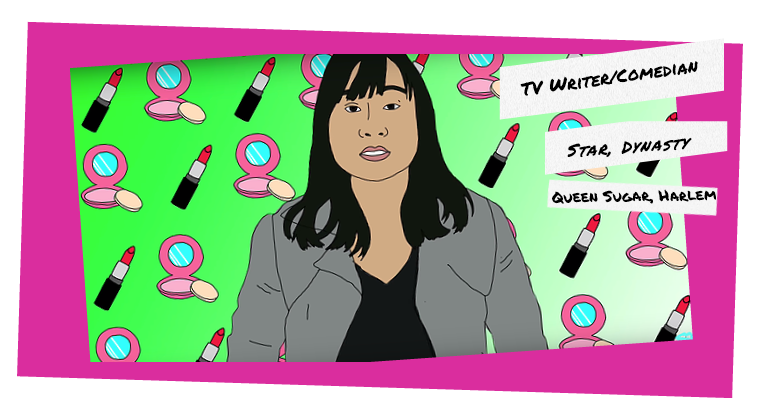
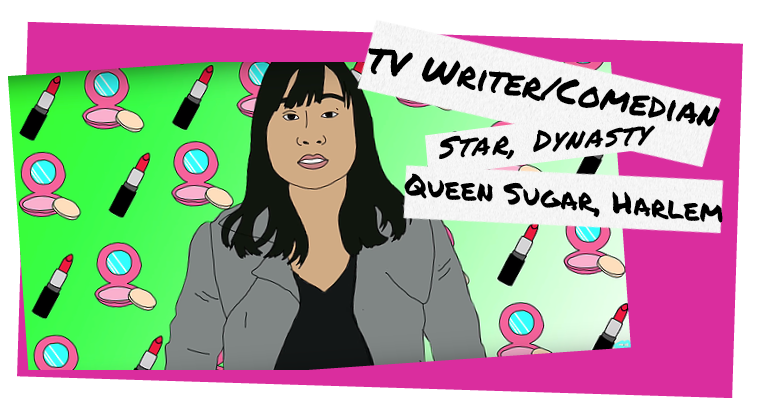
Added updated slides and styling in css

diff --git a/css/main.css b/css/main.css
@@ -95,30 +95,31 @@ textarea {
 }
 
 /* ==========================================================================
-   Author's custom styles
+   Author's custom styles.slider-for img {
+   filter: drop-shadow(0 0 0.4rem gray);
+    width: 95%;
+}
    ========================================================================== */
 body {
-    text-align: center;
     background-color: #F0F0F2;
 }
 
+.wrapper {
+    margin: 5%;
+}
+
+
 .slider-for img {
    filter: drop-shadow(0 0 0.4rem gray);
-    width: 100%;
-    height: 500px;
+   width: 100%;
 }
 
-.slider-for,
-.slider-nav{
-    margin: 0 5%;
-}
-
- 
 .slider-nav img {
-    width: 100%;
-    opacity: .6;
-    height: auto;
-    filter: saturate(50%);
+   width: 60%;
+}
+ 
+.slider-nav {
+   opacity: .6;
 }
 
 
@@ -210,6 +211,30 @@ body {
    These examples override the primary ('mobile first') styles.
    Modify as content requires.
    ========================================================================== */
+
+@media only screen and (min-width: 768px) {
+  /* Style adjustments for viewports that meet the condition */
+
+    .wrapper {
+        margin: none;
+    }
+.slider-for img {
+   filter: drop-shadow(0 0 0.4rem gray);
+}
+
+    
+    slider-nav img {
+        width: 100%;
+    }
+.slider-nav {
+   opacity: .6;
+}
+    }
+
+
+}
+
+
 
 @media only screen and (min-width: 35em) {
   /* Style adjustments for viewports that meet the condition */

diff --git a/index.html b/index.html
@@ -27,15 +27,16 @@
             <div><img src="img/slides2.png"></div>
             <div><img src="img/slides3.png"></div>
             <div><img src="img/slides4.png"></div>
-           
+           <div><img src="img/slides5.png"></div>
         </div>
          
            
         <div class="slider-nav">
-            <div><img src="img/slides.png"></div>
+             <div><img src="img/slides.png"></div>
             <div><img src="img/slides2.png"></div>
             <div><img src="img/slides3.png"></div>
             <div><img src="img/slides4.png"></div>
+           <div><img src="img/slides5.png"></div>
         </div>
   
     </div>

diff --git a/js/script.js b/js/script.js
@@ -1,19 +1,21 @@
 $(document).ready(function() {
       $('.slider-for').slick({
-  slidesToShow: 1,
+  autoplay: true,
+  autoplaySpeed: 4000,
+    slidesToShow: 1,
   slidesToScroll: 1,
   arrows:true,
   fade: true,
   asNavFor: '.slider-nav'
-        
 });
-$('.slider-nav').slick({
-  slidesToShow: 2,
-  slidesToScroll: 1,
+
+    $('.slider-nav').slick({
+  slidesToShow: 3,
+  slidesToScroll: 3,
   asNavFor: '.slider-for',
-  dots: true,
-  centerMode: true,
-  focusOnSelect: true
+  dots: true
 });
+
+
 });
  
